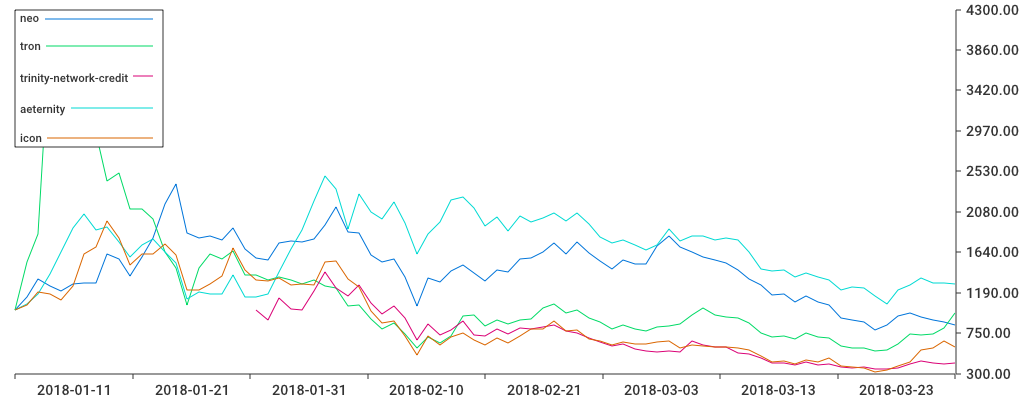
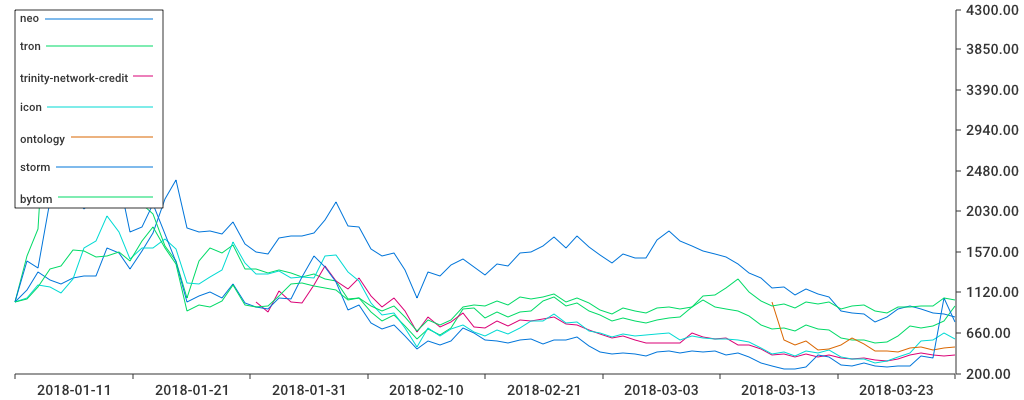
changes to asia

diff --git a/main.go b/main.go
@@ -193,5 +193,5 @@ func portfolioCharts() {
 	util.DrawPortfolioComparisonChart(1000.00, "2018-01-01", "exchanges", "binance-coin", "augur", "gnosis-gno", "0x", "kyber-network", "bancor", "airswap", "republic-protocol")
 	util.DrawPortfolioComparisonChart(1000.00, "2018-01-01", "stables", "maker", "trust", "digixdao", "dai", "tether")
 	util.DrawPortfolioComparisonChart(1000.00, "2018-01-01", "utility", "basic-attention-token", "golem-network-tokens", "request-network", "funfair")
-	util.DrawPortfolioComparisonChart(1000.00, "2018-01-01", "asia", "neo", "tron", "trinity-network-credit", "aeternity", "icon")
+	util.DrawPortfolioComparisonChart(1000.00, "2018-01-01", "asia", "neo", "tron", "trinity-network-credit", "icon", "ontology", "storm", "bytom")
 }

diff --git a/charts/portfolio/asia.md b/charts/portfolio/asia.md
@@ -229,90 +229,6 @@
 * Date bought: 2018-01-01 - Current Date: 2018-01-24 00:00:00 +0000 UTC - Valuation: 1129.96 - Price: 0.31 
 * Date bought: 2018-01-01 - Current Date: 2018-01-23 00:00:00 +0000 UTC - Valuation: 888.33 - Price: 0.24 
 * Date bought: 2018-01-01 - Current Date: 2018-01-22 00:00:00 +0000 UTC - Valuation: 1000.00 - Price: 0.27 
-### aeternity
-* Date bought: 2018-01-01 - Current Date: 2018-03-24 00:00:00 +0000 UTC - Valuation: 1284.62 - Price: 1.67 
-* Date bought: 2018-01-01 - Current Date: 2018-03-23 00:00:00 +0000 UTC - Valuation: 1300.00 - Price: 1.69 
-* Date bought: 2018-01-01 - Current Date: 2018-03-22 00:00:00 +0000 UTC - Valuation: 1292.31 - Price: 1.68 
-* Date bought: 2018-01-01 - Current Date: 2018-03-21 00:00:00 +0000 UTC - Valuation: 1346.15 - Price: 1.75 
-* Date bought: 2018-01-01 - Current Date: 2018-03-20 00:00:00 +0000 UTC - Valuation: 1276.92 - Price: 1.66 
-* Date bought: 2018-01-01 - Current Date: 2018-03-19 00:00:00 +0000 UTC - Valuation: 1215.38 - Price: 1.58 
-* Date bought: 2018-01-01 - Current Date: 2018-03-18 00:00:00 +0000 UTC - Valuation: 1069.23 - Price: 1.39 
-* Date bought: 2018-01-01 - Current Date: 2018-03-17 00:00:00 +0000 UTC - Valuation: 1153.85 - Price: 1.50 
-* Date bought: 2018-01-01 - Current Date: 2018-03-16 00:00:00 +0000 UTC - Valuation: 1238.46 - Price: 1.61 
-* Date bought: 2018-01-01 - Current Date: 2018-03-15 00:00:00 +0000 UTC - Valuation: 1246.15 - Price: 1.62 
-* Date bought: 2018-01-01 - Current Date: 2018-03-14 00:00:00 +0000 UTC - Valuation: 1215.38 - Price: 1.58 
-* Date bought: 2018-01-01 - Current Date: 2018-03-13 00:00:00 +0000 UTC - Valuation: 1323.08 - Price: 1.72 
-* Date bought: 2018-01-01 - Current Date: 2018-03-12 00:00:00 +0000 UTC - Valuation: 1361.54 - Price: 1.77 
-* Date bought: 2018-01-01 - Current Date: 2018-03-11 00:00:00 +0000 UTC - Valuation: 1407.69 - Price: 1.83 
-* Date bought: 2018-01-01 - Current Date: 2018-03-10 00:00:00 +0000 UTC - Valuation: 1361.54 - Price: 1.77 
-* Date bought: 2018-01-01 - Current Date: 2018-03-09 00:00:00 +0000 UTC - Valuation: 1438.46 - Price: 1.87 
-* Date bought: 2018-01-01 - Current Date: 2018-03-08 00:00:00 +0000 UTC - Valuation: 1423.08 - Price: 1.85 
-* Date bought: 2018-01-01 - Current Date: 2018-03-07 00:00:00 +0000 UTC - Valuation: 1446.15 - Price: 1.88 
-* Date bought: 2018-01-01 - Current Date: 2018-03-06 00:00:00 +0000 UTC - Valuation: 1630.77 - Price: 2.12 
-* Date bought: 2018-01-01 - Current Date: 2018-03-05 00:00:00 +0000 UTC - Valuation: 1769.23 - Price: 2.30 
-* Date bought: 2018-01-01 - Current Date: 2018-03-04 00:00:00 +0000 UTC - Valuation: 1784.62 - Price: 2.32 
-* Date bought: 2018-01-01 - Current Date: 2018-03-03 00:00:00 +0000 UTC - Valuation: 1769.23 - Price: 2.30 
-* Date bought: 2018-01-01 - Current Date: 2018-03-02 00:00:00 +0000 UTC - Valuation: 1815.38 - Price: 2.36 
-* Date bought: 2018-01-01 - Current Date: 2018-03-01 00:00:00 +0000 UTC - Valuation: 1807.69 - Price: 2.35 
-* Date bought: 2018-01-01 - Current Date: 2018-02-28 00:00:00 +0000 UTC - Valuation: 1753.85 - Price: 2.28 
-* Date bought: 2018-01-01 - Current Date: 2018-02-27 00:00:00 +0000 UTC - Valuation: 1884.62 - Price: 2.45 
-* Date bought: 2018-01-01 - Current Date: 2018-02-26 00:00:00 +0000 UTC - Valuation: 1707.69 - Price: 2.22 
-* Date bought: 2018-01-01 - Current Date: 2018-02-25 00:00:00 +0000 UTC - Valuation: 1661.54 - Price: 2.16 
-* Date bought: 2018-01-01 - Current Date: 2018-02-24 00:00:00 +0000 UTC - Valuation: 1715.38 - Price: 2.23 
-* Date bought: 2018-01-01 - Current Date: 2018-02-23 00:00:00 +0000 UTC - Valuation: 1769.23 - Price: 2.30 
-* Date bought: 2018-01-01 - Current Date: 2018-02-22 00:00:00 +0000 UTC - Valuation: 1738.46 - Price: 2.26 
-* Date bought: 2018-01-01 - Current Date: 2018-02-21 00:00:00 +0000 UTC - Valuation: 1800.00 - Price: 2.34 
-* Date bought: 2018-01-01 - Current Date: 2018-02-20 00:00:00 +0000 UTC - Valuation: 1946.15 - Price: 2.53 
-* Date bought: 2018-01-01 - Current Date: 2018-02-19 00:00:00 +0000 UTC - Valuation: 2069.23 - Price: 2.69 
-* Date bought: 2018-01-01 - Current Date: 2018-02-18 00:00:00 +0000 UTC - Valuation: 1976.92 - Price: 2.57 
-* Date bought: 2018-01-01 - Current Date: 2018-02-17 00:00:00 +0000 UTC - Valuation: 2061.54 - Price: 2.68 
-* Date bought: 2018-01-01 - Current Date: 2018-02-16 00:00:00 +0000 UTC - Valuation: 2007.69 - Price: 2.61 
-* Date bought: 2018-01-01 - Current Date: 2018-02-15 00:00:00 +0000 UTC - Valuation: 1969.23 - Price: 2.56 
-* Date bought: 2018-01-01 - Current Date: 2018-02-14 00:00:00 +0000 UTC - Valuation: 2030.77 - Price: 2.64 
-* Date bought: 2018-01-01 - Current Date: 2018-02-13 00:00:00 +0000 UTC - Valuation: 1861.54 - Price: 2.42 
-* Date bought: 2018-01-01 - Current Date: 2018-02-12 00:00:00 +0000 UTC - Valuation: 2023.08 - Price: 2.63 
-* Date bought: 2018-01-01 - Current Date: 2018-02-11 00:00:00 +0000 UTC - Valuation: 1923.08 - Price: 2.50 
-* Date bought: 2018-01-01 - Current Date: 2018-02-10 00:00:00 +0000 UTC - Valuation: 2123.08 - Price: 2.76 
-* Date bought: 2018-01-01 - Current Date: 2018-02-09 00:00:00 +0000 UTC - Valuation: 2238.46 - Price: 2.91 
-* Date bought: 2018-01-01 - Current Date: 2018-02-08 00:00:00 +0000 UTC - Valuation: 2207.69 - Price: 2.87 
-* Date bought: 2018-01-01 - Current Date: 2018-02-07 00:00:00 +0000 UTC - Valuation: 1961.54 - Price: 2.55 
-* Date bought: 2018-01-01 - Current Date: 2018-02-06 00:00:00 +0000 UTC - Valuation: 1838.46 - Price: 2.39 
-* Date bought: 2018-01-01 - Current Date: 2018-02-05 00:00:00 +0000 UTC - Valuation: 1615.38 - Price: 2.10 
-* Date bought: 2018-01-01 - Current Date: 2018-02-04 00:00:00 +0000 UTC - Valuation: 1953.85 - Price: 2.54 
-* Date bought: 2018-01-01 - Current Date: 2018-02-03 00:00:00 +0000 UTC - Valuation: 2184.62 - Price: 2.84 
-* Date bought: 2018-01-01 - Current Date: 2018-02-02 00:00:00 +0000 UTC - Valuation: 2000.00 - Price: 2.60 
-* Date bought: 2018-01-01 - Current Date: 2018-02-01 00:00:00 +0000 UTC - Valuation: 2076.92 - Price: 2.70 
-* Date bought: 2018-01-01 - Current Date: 2018-01-31 00:00:00 +0000 UTC - Valuation: 2269.23 - Price: 2.95 
-* Date bought: 2018-01-01 - Current Date: 2018-01-30 00:00:00 +0000 UTC - Valuation: 1892.31 - Price: 2.46 
-* Date bought: 2018-01-01 - Current Date: 2018-01-29 00:00:00 +0000 UTC - Valuation: 2330.77 - Price: 3.03 
-* Date bought: 2018-01-01 - Current Date: 2018-01-28 00:00:00 +0000 UTC - Valuation: 2469.23 - Price: 3.21 
-* Date bought: 2018-01-01 - Current Date: 2018-01-27 00:00:00 +0000 UTC - Valuation: 2200.00 - Price: 2.86 
-* Date bought: 2018-01-01 - Current Date: 2018-01-26 00:00:00 +0000 UTC - Valuation: 1876.92 - Price: 2.44 
-* Date bought: 2018-01-01 - Current Date: 2018-01-25 00:00:00 +0000 UTC - Valuation: 1669.23 - Price: 2.17 
-* Date bought: 2018-01-01 - Current Date: 2018-01-24 00:00:00 +0000 UTC - Valuation: 1415.38 - Price: 1.84 
-* Date bought: 2018-01-01 - Current Date: 2018-01-23 00:00:00 +0000 UTC - Valuation: 1176.92 - Price: 1.53 
-* Date bought: 2018-01-01 - Current Date: 2018-01-22 00:00:00 +0000 UTC - Valuation: 1146.15 - Price: 1.49 
-* Date bought: 2018-01-01 - Current Date: 2018-01-21 00:00:00 +0000 UTC - Valuation: 1146.15 - Price: 1.49 
-* Date bought: 2018-01-01 - Current Date: 2018-01-20 00:00:00 +0000 UTC - Valuation: 1384.62 - Price: 1.80 
-* Date bought: 2018-01-01 - Current Date: 2018-01-19 00:00:00 +0000 UTC - Valuation: 1176.92 - Price: 1.53 
-* Date bought: 2018-01-01 - Current Date: 2018-01-18 00:00:00 +0000 UTC - Valuation: 1169.23 - Price: 1.52 
-* Date bought: 2018-01-01 - Current Date: 2018-01-17 00:00:00 +0000 UTC - Valuation: 1192.31 - Price: 1.55 
-* Date bought: 2018-01-01 - Current Date: 2018-01-16 00:00:00 +0000 UTC - Valuation: 1123.08 - Price: 1.46 
-* Date bought: 2018-01-01 - Current Date: 2018-01-15 00:00:00 +0000 UTC - Valuation: 1515.38 - Price: 1.97 
-* Date bought: 2018-01-01 - Current Date: 2018-01-14 00:00:00 +0000 UTC - Valuation: 1638.46 - Price: 2.13 
-* Date bought: 2018-01-01 - Current Date: 2018-01-13 00:00:00 +0000 UTC - Valuation: 1776.92 - Price: 2.31 
-* Date bought: 2018-01-01 - Current Date: 2018-01-12 00:00:00 +0000 UTC - Valuation: 1707.69 - Price: 2.22 
-* Date bought: 2018-01-01 - Current Date: 2018-01-11 00:00:00 +0000 UTC - Valuation: 1584.62 - Price: 2.06 
-* Date bought: 2018-01-01 - Current Date: 2018-01-10 00:00:00 +0000 UTC - Valuation: 1746.15 - Price: 2.27 
-* Date bought: 2018-01-01 - Current Date: 2018-01-09 00:00:00 +0000 UTC - Valuation: 1907.69 - Price: 2.48 
-* Date bought: 2018-01-01 - Current Date: 2018-01-08 00:00:00 +0000 UTC - Valuation: 1876.92 - Price: 2.44 
-* Date bought: 2018-01-01 - Current Date: 2018-01-07 00:00:00 +0000 UTC - Valuation: 2053.85 - Price: 2.67 
-* Date bought: 2018-01-01 - Current Date: 2018-01-06 00:00:00 +0000 UTC - Valuation: 1900.00 - Price: 2.47 
-* Date bought: 2018-01-01 - Current Date: 2018-01-05 00:00:00 +0000 UTC - Valuation: 1638.46 - Price: 2.13 
-* Date bought: 2018-01-01 - Current Date: 2018-01-04 00:00:00 +0000 UTC - Valuation: 1392.31 - Price: 1.81 
-* Date bought: 2018-01-01 - Current Date: 2018-01-03 00:00:00 +0000 UTC - Valuation: 1176.92 - Price: 1.53 
-* Date bought: 2018-01-01 - Current Date: 2018-01-02 00:00:00 +0000 UTC - Valuation: 1061.54 - Price: 1.38 
-* Date bought: 2018-01-01 - Current Date: 2018-01-01 00:00:00 +0000 UTC - Valuation: 1000.00 - Price: 1.30 
 ### icon
 * Date bought: 2018-01-01 - Current Date: 2018-03-24 00:00:00 +0000 UTC - Valuation: 590.91 - Price: 3.64 
 * Date bought: 2018-01-01 - Current Date: 2018-03-23 00:00:00 +0000 UTC - Valuation: 659.09 - Price: 4.06 
@@ -397,3 +313,189 @@
 * Date bought: 2018-01-01 - Current Date: 2018-01-03 00:00:00 +0000 UTC - Valuation: 1191.56 - Price: 7.34 
 * Date bought: 2018-01-01 - Current Date: 2018-01-02 00:00:00 +0000 UTC - Valuation: 1053.57 - Price: 6.49 
 * Date bought: 2018-01-01 - Current Date: 2018-01-01 00:00:00 +0000 UTC - Valuation: 1000.00 - Price: 6.16 
+### ontology
+* Date bought: 2018-01-01 - Current Date: 2018-03-24 00:00:00 +0000 UTC - Valuation: 503.52 - Price: 1.43 
+* Date bought: 2018-01-01 - Current Date: 2018-03-23 00:00:00 +0000 UTC - Valuation: 482.39 - Price: 1.37 
+* Date bought: 2018-01-01 - Current Date: 2018-03-22 00:00:00 +0000 UTC - Valuation: 461.27 - Price: 1.31 
+* Date bought: 2018-01-01 - Current Date: 2018-03-21 00:00:00 +0000 UTC - Valuation: 496.48 - Price: 1.41 
+* Date bought: 2018-01-01 - Current Date: 2018-03-20 00:00:00 +0000 UTC - Valuation: 485.92 - Price: 1.38 
+* Date bought: 2018-01-01 - Current Date: 2018-03-19 00:00:00 +0000 UTC - Valuation: 443.66 - Price: 1.26 
+* Date bought: 2018-01-01 - Current Date: 2018-03-18 00:00:00 +0000 UTC - Valuation: 450.70 - Price: 1.28 
+* Date bought: 2018-01-01 - Current Date: 2018-03-17 00:00:00 +0000 UTC - Valuation: 450.70 - Price: 1.28 
+* Date bought: 2018-01-01 - Current Date: 2018-03-16 00:00:00 +0000 UTC - Valuation: 531.69 - Price: 1.51 
+* Date bought: 2018-01-01 - Current Date: 2018-03-15 00:00:00 +0000 UTC - Valuation: 595.07 - Price: 1.69 
+* Date bought: 2018-01-01 - Current Date: 2018-03-14 00:00:00 +0000 UTC - Valuation: 517.61 - Price: 1.47 
+* Date bought: 2018-01-01 - Current Date: 2018-03-13 00:00:00 +0000 UTC - Valuation: 478.87 - Price: 1.36 
+* Date bought: 2018-01-01 - Current Date: 2018-03-12 00:00:00 +0000 UTC - Valuation: 461.27 - Price: 1.31 
+* Date bought: 2018-01-01 - Current Date: 2018-03-11 00:00:00 +0000 UTC - Valuation: 563.38 - Price: 1.60 
+* Date bought: 2018-01-01 - Current Date: 2018-03-10 00:00:00 +0000 UTC - Valuation: 521.13 - Price: 1.48 
+* Date bought: 2018-01-01 - Current Date: 2018-03-09 00:00:00 +0000 UTC - Valuation: 577.46 - Price: 1.64 
+* Date bought: 2018-01-01 - Current Date: 2018-03-08 00:00:00 +0000 UTC - Valuation: 1000.00 - Price: 2.84 
+### storm
+* Date bought: 2018-01-01 - Current Date: 2018-03-24 00:00:00 +0000 UTC - Valuation: 784.30 - Price: 0.05 
+* Date bought: 2018-01-01 - Current Date: 2018-03-23 00:00:00 +0000 UTC - Valuation: 1045.19 - Price: 0.07 
+* Date bought: 2018-01-01 - Current Date: 2018-03-22 00:00:00 +0000 UTC - Valuation: 371.56 - Price: 0.03 
+* Date bought: 2018-01-01 - Current Date: 2018-03-21 00:00:00 +0000 UTC - Valuation: 398.16 - Price: 0.03 
+* Date bought: 2018-01-01 - Current Date: 2018-03-20 00:00:00 +0000 UTC - Valuation: 285.67 - Price: 0.02 
+* Date bought: 2018-01-01 - Current Date: 2018-03-19 00:00:00 +0000 UTC - Valuation: 283.04 - Price: 0.02 
+* Date bought: 2018-01-01 - Current Date: 2018-03-18 00:00:00 +0000 UTC - Valuation: 277.68 - Price: 0.02 
+* Date bought: 2018-01-01 - Current Date: 2018-03-17 00:00:00 +0000 UTC - Valuation: 284.58 - Price: 0.02 
+* Date bought: 2018-01-01 - Current Date: 2018-03-16 00:00:00 +0000 UTC - Valuation: 315.73 - Price: 0.02 
+* Date bought: 2018-01-01 - Current Date: 2018-03-15 00:00:00 +0000 UTC - Valuation: 286.51 - Price: 0.02 
+* Date bought: 2018-01-01 - Current Date: 2018-03-14 00:00:00 +0000 UTC - Valuation: 296.70 - Price: 0.02 
+* Date bought: 2018-01-01 - Current Date: 2018-03-13 00:00:00 +0000 UTC - Valuation: 384.36 - Price: 0.03 
+* Date bought: 2018-01-01 - Current Date: 2018-03-12 00:00:00 +0000 UTC - Valuation: 411.29 - Price: 0.03 
+* Date bought: 2018-01-01 - Current Date: 2018-03-11 00:00:00 +0000 UTC - Valuation: 270.61 - Price: 0.02 
+* Date bought: 2018-01-01 - Current Date: 2018-03-10 00:00:00 +0000 UTC - Valuation: 253.78 - Price: 0.02 
+* Date bought: 2018-01-01 - Current Date: 2018-03-09 00:00:00 +0000 UTC - Valuation: 255.56 - Price: 0.02 
+* Date bought: 2018-01-01 - Current Date: 2018-03-08 00:00:00 +0000 UTC - Valuation: 281.25 - Price: 0.02 
+* Date bought: 2018-01-01 - Current Date: 2018-03-07 00:00:00 +0000 UTC - Valuation: 322.49 - Price: 0.02 
+* Date bought: 2018-01-01 - Current Date: 2018-03-06 00:00:00 +0000 UTC - Valuation: 383.91 - Price: 0.03 
+* Date bought: 2018-01-01 - Current Date: 2018-03-05 00:00:00 +0000 UTC - Valuation: 435.94 - Price: 0.03 
+* Date bought: 2018-01-01 - Current Date: 2018-03-04 00:00:00 +0000 UTC - Valuation: 413.30 - Price: 0.03 
+* Date bought: 2018-01-01 - Current Date: 2018-03-03 00:00:00 +0000 UTC - Valuation: 452.61 - Price: 0.03 
+* Date bought: 2018-01-01 - Current Date: 2018-03-02 00:00:00 +0000 UTC - Valuation: 446.41 - Price: 0.03 
+* Date bought: 2018-01-01 - Current Date: 2018-03-01 00:00:00 +0000 UTC - Valuation: 450.18 - Price: 0.03 
+* Date bought: 2018-01-01 - Current Date: 2018-02-28 00:00:00 +0000 UTC - Valuation: 430.15 - Price: 0.03 
+* Date bought: 2018-01-01 - Current Date: 2018-02-27 00:00:00 +0000 UTC - Valuation: 449.12 - Price: 0.03 
+* Date bought: 2018-01-01 - Current Date: 2018-02-26 00:00:00 +0000 UTC - Valuation: 445.53 - Price: 0.03 
+* Date bought: 2018-01-01 - Current Date: 2018-02-25 00:00:00 +0000 UTC - Valuation: 392.28 - Price: 0.03 
+* Date bought: 2018-01-01 - Current Date: 2018-02-24 00:00:00 +0000 UTC - Valuation: 421.96 - Price: 0.03 
+* Date bought: 2018-01-01 - Current Date: 2018-02-23 00:00:00 +0000 UTC - Valuation: 434.97 - Price: 0.03 
+* Date bought: 2018-01-01 - Current Date: 2018-02-22 00:00:00 +0000 UTC - Valuation: 414.58 - Price: 0.03 
+* Date bought: 2018-01-01 - Current Date: 2018-02-21 00:00:00 +0000 UTC - Valuation: 442.17 - Price: 0.03 
+* Date bought: 2018-01-01 - Current Date: 2018-02-20 00:00:00 +0000 UTC - Valuation: 509.99 - Price: 0.03 
+* Date bought: 2018-01-01 - Current Date: 2018-02-19 00:00:00 +0000 UTC - Valuation: 612.64 - Price: 0.04 
+* Date bought: 2018-01-01 - Current Date: 2018-02-18 00:00:00 +0000 UTC - Valuation: 572.37 - Price: 0.04 
+* Date bought: 2018-01-01 - Current Date: 2018-02-17 00:00:00 +0000 UTC - Valuation: 576.37 - Price: 0.04 
+* Date bought: 2018-01-01 - Current Date: 2018-02-16 00:00:00 +0000 UTC - Valuation: 530.29 - Price: 0.04 
+* Date bought: 2018-01-01 - Current Date: 2018-02-15 00:00:00 +0000 UTC - Valuation: 584.83 - Price: 0.04 
+* Date bought: 2018-01-01 - Current Date: 2018-02-14 00:00:00 +0000 UTC - Valuation: 572.40 - Price: 0.04 
+* Date bought: 2018-01-01 - Current Date: 2018-02-13 00:00:00 +0000 UTC - Valuation: 542.33 - Price: 0.04 
+* Date bought: 2018-01-01 - Current Date: 2018-02-12 00:00:00 +0000 UTC - Valuation: 571.09 - Price: 0.04 
+* Date bought: 2018-01-01 - Current Date: 2018-02-11 00:00:00 +0000 UTC - Valuation: 574.47 - Price: 0.04 
+* Date bought: 2018-01-01 - Current Date: 2018-02-10 00:00:00 +0000 UTC - Valuation: 660.59 - Price: 0.04 
+* Date bought: 2018-01-01 - Current Date: 2018-02-09 00:00:00 +0000 UTC - Valuation: 709.19 - Price: 0.05 
+* Date bought: 2018-01-01 - Current Date: 2018-02-08 00:00:00 +0000 UTC - Valuation: 564.38 - Price: 0.04 
+* Date bought: 2018-01-01 - Current Date: 2018-02-07 00:00:00 +0000 UTC - Valuation: 518.26 - Price: 0.03 
+* Date bought: 2018-01-01 - Current Date: 2018-02-06 00:00:00 +0000 UTC - Valuation: 569.02 - Price: 0.04 
+* Date bought: 2018-01-01 - Current Date: 2018-02-05 00:00:00 +0000 UTC - Valuation: 471.68 - Price: 0.03 
+* Date bought: 2018-01-01 - Current Date: 2018-02-04 00:00:00 +0000 UTC - Valuation: 619.09 - Price: 0.04 
+* Date bought: 2018-01-01 - Current Date: 2018-02-03 00:00:00 +0000 UTC - Valuation: 747.60 - Price: 0.05 
+* Date bought: 2018-01-01 - Current Date: 2018-02-02 00:00:00 +0000 UTC - Valuation: 699.21 - Price: 0.05 
+* Date bought: 2018-01-01 - Current Date: 2018-02-01 00:00:00 +0000 UTC - Valuation: 769.16 - Price: 0.05 
+* Date bought: 2018-01-01 - Current Date: 2018-01-31 00:00:00 +0000 UTC - Valuation: 975.51 - Price: 0.07 
+* Date bought: 2018-01-01 - Current Date: 2018-01-30 00:00:00 +0000 UTC - Valuation: 916.68 - Price: 0.06 
+* Date bought: 2018-01-01 - Current Date: 2018-01-29 00:00:00 +0000 UTC - Valuation: 1235.38 - Price: 0.08 
+* Date bought: 2018-01-01 - Current Date: 2018-01-28 00:00:00 +0000 UTC - Valuation: 1400.52 - Price: 0.09 
+* Date bought: 2018-01-01 - Current Date: 2018-01-27 00:00:00 +0000 UTC - Valuation: 1518.63 - Price: 0.10 
+* Date bought: 2018-01-01 - Current Date: 2018-01-26 00:00:00 +0000 UTC - Valuation: 1282.20 - Price: 0.09 
+* Date bought: 2018-01-01 - Current Date: 2018-01-25 00:00:00 +0000 UTC - Valuation: 1037.92 - Price: 0.07 
+* Date bought: 2018-01-01 - Current Date: 2018-01-24 00:00:00 +0000 UTC - Valuation: 1050.88 - Price: 0.07 
+* Date bought: 2018-01-01 - Current Date: 2018-01-23 00:00:00 +0000 UTC - Valuation: 925.19 - Price: 0.06 
+* Date bought: 2018-01-01 - Current Date: 2018-01-22 00:00:00 +0000 UTC - Valuation: 943.74 - Price: 0.06 
+* Date bought: 2018-01-01 - Current Date: 2018-01-21 00:00:00 +0000 UTC - Valuation: 991.18 - Price: 0.07 
+* Date bought: 2018-01-01 - Current Date: 2018-01-20 00:00:00 +0000 UTC - Valuation: 1204.15 - Price: 0.08 
+* Date bought: 2018-01-01 - Current Date: 2018-01-19 00:00:00 +0000 UTC - Valuation: 1044.84 - Price: 0.07 
+* Date bought: 2018-01-01 - Current Date: 2018-01-18 00:00:00 +0000 UTC - Valuation: 1122.51 - Price: 0.08 
+* Date bought: 2018-01-01 - Current Date: 2018-01-17 00:00:00 +0000 UTC - Valuation: 1074.53 - Price: 0.07 
+* Date bought: 2018-01-01 - Current Date: 2018-01-16 00:00:00 +0000 UTC - Valuation: 1000.95 - Price: 0.07 
+* Date bought: 2018-01-01 - Current Date: 2018-01-15 00:00:00 +0000 UTC - Valuation: 1456.78 - Price: 0.10 
+* Date bought: 2018-01-01 - Current Date: 2018-01-14 00:00:00 +0000 UTC - Valuation: 1773.81 - Price: 0.12 
+* Date bought: 2018-01-01 - Current Date: 2018-01-13 00:00:00 +0000 UTC - Valuation: 2106.98 - Price: 0.14 
+* Date bought: 2018-01-01 - Current Date: 2018-01-12 00:00:00 +0000 UTC - Valuation: 1848.22 - Price: 0.12 
+* Date bought: 2018-01-01 - Current Date: 2018-01-11 00:00:00 +0000 UTC - Valuation: 1792.61 - Price: 0.12 
+* Date bought: 2018-01-01 - Current Date: 2018-01-10 00:00:00 +0000 UTC - Valuation: 2388.63 - Price: 0.16 
+* Date bought: 2018-01-01 - Current Date: 2018-01-09 00:00:00 +0000 UTC - Valuation: 3130.17 - Price: 0.21 
+* Date bought: 2018-01-01 - Current Date: 2018-01-08 00:00:00 +0000 UTC - Valuation: 2193.78 - Price: 0.15 
+* Date bought: 2018-01-01 - Current Date: 2018-01-07 00:00:00 +0000 UTC - Valuation: 2056.16 - Price: 0.14 
+* Date bought: 2018-01-01 - Current Date: 2018-01-06 00:00:00 +0000 UTC - Valuation: 2242.92 - Price: 0.15 
+* Date bought: 2018-01-01 - Current Date: 2018-01-05 00:00:00 +0000 UTC - Valuation: 2662.04 - Price: 0.18 
+* Date bought: 2018-01-01 - Current Date: 2018-01-04 00:00:00 +0000 UTC - Valuation: 2147.03 - Price: 0.14 
+* Date bought: 2018-01-01 - Current Date: 2018-01-03 00:00:00 +0000 UTC - Valuation: 1389.74 - Price: 0.09 
+* Date bought: 2018-01-01 - Current Date: 2018-01-02 00:00:00 +0000 UTC - Valuation: 1462.66 - Price: 0.10 
+* Date bought: 2018-01-01 - Current Date: 2018-01-01 00:00:00 +0000 UTC - Valuation: 1000.00 - Price: 0.07 
+### bytom
+* Date bought: 2018-01-01 - Current Date: 2018-03-24 00:00:00 +0000 UTC - Valuation: 1031.95 - Price: 0.38 
+* Date bought: 2018-01-01 - Current Date: 2018-03-23 00:00:00 +0000 UTC - Valuation: 1045.92 - Price: 0.38 
+* Date bought: 2018-01-01 - Current Date: 2018-03-22 00:00:00 +0000 UTC - Valuation: 955.77 - Price: 0.35 
+* Date bought: 2018-01-01 - Current Date: 2018-03-21 00:00:00 +0000 UTC - Valuation: 963.61 - Price: 0.35 
+* Date bought: 2018-01-01 - Current Date: 2018-03-20 00:00:00 +0000 UTC - Valuation: 944.98 - Price: 0.35 
+* Date bought: 2018-01-01 - Current Date: 2018-03-19 00:00:00 +0000 UTC - Valuation: 944.30 - Price: 0.35 
+* Date bought: 2018-01-01 - Current Date: 2018-03-18 00:00:00 +0000 UTC - Valuation: 885.10 - Price: 0.32 
+* Date bought: 2018-01-01 - Current Date: 2018-03-17 00:00:00 +0000 UTC - Valuation: 907.41 - Price: 0.33 
+* Date bought: 2018-01-01 - Current Date: 2018-03-16 00:00:00 +0000 UTC - Valuation: 966.36 - Price: 0.35 
+* Date bought: 2018-01-01 - Current Date: 2018-03-15 00:00:00 +0000 UTC - Valuation: 958.58 - Price: 0.35 
+* Date bought: 2018-01-01 - Current Date: 2018-03-14 00:00:00 +0000 UTC - Valuation: 931.48 - Price: 0.34 
+* Date bought: 2018-01-01 - Current Date: 2018-03-13 00:00:00 +0000 UTC - Valuation: 1006.78 - Price: 0.37 
+* Date bought: 2018-01-01 - Current Date: 2018-03-12 00:00:00 +0000 UTC - Valuation: 981.85 - Price: 0.36 
+* Date bought: 2018-01-01 - Current Date: 2018-03-11 00:00:00 +0000 UTC - Valuation: 1004.54 - Price: 0.37 
+* Date bought: 2018-01-01 - Current Date: 2018-03-10 00:00:00 +0000 UTC - Valuation: 934.45 - Price: 0.34 
+* Date bought: 2018-01-01 - Current Date: 2018-03-09 00:00:00 +0000 UTC - Valuation: 986.44 - Price: 0.36 
+* Date bought: 2018-01-01 - Current Date: 2018-03-08 00:00:00 +0000 UTC - Valuation: 959.28 - Price: 0.35 
+* Date bought: 2018-01-01 - Current Date: 2018-03-07 00:00:00 +0000 UTC - Valuation: 1012.03 - Price: 0.37 
+* Date bought: 2018-01-01 - Current Date: 2018-03-06 00:00:00 +0000 UTC - Valuation: 1118.44 - Price: 0.41 
+* Date bought: 2018-01-01 - Current Date: 2018-03-05 00:00:00 +0000 UTC - Valuation: 1261.76 - Price: 0.46 
+* Date bought: 2018-01-01 - Current Date: 2018-03-04 00:00:00 +0000 UTC - Valuation: 1158.01 - Price: 0.42 
+* Date bought: 2018-01-01 - Current Date: 2018-03-03 00:00:00 +0000 UTC - Valuation: 1083.24 - Price: 0.40 
+* Date bought: 2018-01-01 - Current Date: 2018-03-02 00:00:00 +0000 UTC - Valuation: 1073.23 - Price: 0.39 
+* Date bought: 2018-01-01 - Current Date: 2018-03-01 00:00:00 +0000 UTC - Valuation: 950.21 - Price: 0.35 
+* Date bought: 2018-01-01 - Current Date: 2018-02-28 00:00:00 +0000 UTC - Valuation: 922.33 - Price: 0.34 
+* Date bought: 2018-01-01 - Current Date: 2018-02-27 00:00:00 +0000 UTC - Valuation: 949.81 - Price: 0.35 
+* Date bought: 2018-01-01 - Current Date: 2018-02-26 00:00:00 +0000 UTC - Valuation: 941.89 - Price: 0.35 
+* Date bought: 2018-01-01 - Current Date: 2018-02-25 00:00:00 +0000 UTC - Valuation: 886.60 - Price: 0.33 
+* Date bought: 2018-01-01 - Current Date: 2018-02-24 00:00:00 +0000 UTC - Valuation: 908.84 - Price: 0.33 
+* Date bought: 2018-01-01 - Current Date: 2018-02-23 00:00:00 +0000 UTC - Valuation: 940.27 - Price: 0.34 
+* Date bought: 2018-01-01 - Current Date: 2018-02-22 00:00:00 +0000 UTC - Valuation: 875.16 - Price: 0.32 
+* Date bought: 2018-01-01 - Current Date: 2018-02-21 00:00:00 +0000 UTC - Valuation: 913.35 - Price: 0.34 
+* Date bought: 2018-01-01 - Current Date: 2018-02-20 00:00:00 +0000 UTC - Valuation: 992.45 - Price: 0.36 
+* Date bought: 2018-01-01 - Current Date: 2018-02-19 00:00:00 +0000 UTC - Valuation: 1044.95 - Price: 0.38 
+* Date bought: 2018-01-01 - Current Date: 2018-02-18 00:00:00 +0000 UTC - Valuation: 1003.53 - Price: 0.37 
+* Date bought: 2018-01-01 - Current Date: 2018-02-17 00:00:00 +0000 UTC - Valuation: 1095.03 - Price: 0.40 
+* Date bought: 2018-01-01 - Current Date: 2018-02-16 00:00:00 +0000 UTC - Valuation: 1058.26 - Price: 0.39 
+* Date bought: 2018-01-01 - Current Date: 2018-02-15 00:00:00 +0000 UTC - Valuation: 1043.45 - Price: 0.38 
+* Date bought: 2018-01-01 - Current Date: 2018-02-14 00:00:00 +0000 UTC - Valuation: 1056.10 - Price: 0.39 
+* Date bought: 2018-01-01 - Current Date: 2018-02-13 00:00:00 +0000 UTC - Valuation: 971.70 - Price: 0.36 
+* Date bought: 2018-01-01 - Current Date: 2018-02-12 00:00:00 +0000 UTC - Valuation: 1011.28 - Price: 0.37 
+* Date bought: 2018-01-01 - Current Date: 2018-02-11 00:00:00 +0000 UTC - Valuation: 961.46 - Price: 0.35 
+* Date bought: 2018-01-01 - Current Date: 2018-02-10 00:00:00 +0000 UTC - Valuation: 968.92 - Price: 0.36 
+* Date bought: 2018-01-01 - Current Date: 2018-02-09 00:00:00 +0000 UTC - Valuation: 954.03 - Price: 0.35 
+* Date bought: 2018-01-01 - Current Date: 2018-02-08 00:00:00 +0000 UTC - Valuation: 802.60 - Price: 0.29 
+* Date bought: 2018-01-01 - Current Date: 2018-02-07 00:00:00 +0000 UTC - Valuation: 748.34 - Price: 0.27 
+* Date bought: 2018-01-01 - Current Date: 2018-02-06 00:00:00 +0000 UTC - Valuation: 799.41 - Price: 0.29 
+* Date bought: 2018-01-01 - Current Date: 2018-02-05 00:00:00 +0000 UTC - Valuation: 681.59 - Price: 0.25 
+* Date bought: 2018-01-01 - Current Date: 2018-02-04 00:00:00 +0000 UTC - Valuation: 835.49 - Price: 0.31 
+* Date bought: 2018-01-01 - Current Date: 2018-02-03 00:00:00 +0000 UTC - Valuation: 964.18 - Price: 0.35 
+* Date bought: 2018-01-01 - Current Date: 2018-02-02 00:00:00 +0000 UTC - Valuation: 905.68 - Price: 0.33 
+* Date bought: 2018-01-01 - Current Date: 2018-02-01 00:00:00 +0000 UTC - Valuation: 954.70 - Price: 0.35 
+* Date bought: 2018-01-01 - Current Date: 2018-01-31 00:00:00 +0000 UTC - Valuation: 1045.65 - Price: 0.38 
+* Date bought: 2018-01-01 - Current Date: 2018-01-30 00:00:00 +0000 UTC - Valuation: 1023.51 - Price: 0.38 
+* Date bought: 2018-01-01 - Current Date: 2018-01-29 00:00:00 +0000 UTC - Valuation: 1135.27 - Price: 0.42 
+* Date bought: 2018-01-01 - Current Date: 2018-01-28 00:00:00 +0000 UTC - Valuation: 1164.81 - Price: 0.43 
+* Date bought: 2018-01-01 - Current Date: 2018-01-27 00:00:00 +0000 UTC - Valuation: 1190.52 - Price: 0.44 
+* Date bought: 2018-01-01 - Current Date: 2018-01-26 00:00:00 +0000 UTC - Valuation: 1218.74 - Price: 0.45 
+* Date bought: 2018-01-01 - Current Date: 2018-01-25 00:00:00 +0000 UTC - Valuation: 1210.41 - Price: 0.44 
+* Date bought: 2018-01-01 - Current Date: 2018-01-24 00:00:00 +0000 UTC - Valuation: 1071.79 - Price: 0.39 
+* Date bought: 2018-01-01 - Current Date: 2018-01-23 00:00:00 +0000 UTC - Valuation: 965.39 - Price: 0.35 
+* Date bought: 2018-01-01 - Current Date: 2018-01-22 00:00:00 +0000 UTC - Valuation: 952.11 - Price: 0.35 
+* Date bought: 2018-01-01 - Current Date: 2018-01-21 00:00:00 +0000 UTC - Valuation: 975.88 - Price: 0.36 
+* Date bought: 2018-01-01 - Current Date: 2018-01-20 00:00:00 +0000 UTC - Valuation: 1196.43 - Price: 0.44 
+* Date bought: 2018-01-01 - Current Date: 2018-01-19 00:00:00 +0000 UTC - Valuation: 1016.01 - Price: 0.37 
+* Date bought: 2018-01-01 - Current Date: 2018-01-18 00:00:00 +0000 UTC - Valuation: 948.46 - Price: 0.35 
+* Date bought: 2018-01-01 - Current Date: 2018-01-17 00:00:00 +0000 UTC - Valuation: 973.84 - Price: 0.36 
+* Date bought: 2018-01-01 - Current Date: 2018-01-16 00:00:00 +0000 UTC - Valuation: 905.01 - Price: 0.33 
+* Date bought: 2018-01-01 - Current Date: 2018-01-15 00:00:00 +0000 UTC - Valuation: 1434.47 - Price: 0.53 
+* Date bought: 2018-01-01 - Current Date: 2018-01-14 00:00:00 +0000 UTC - Valuation: 1609.98 - Price: 0.59 
+* Date bought: 2018-01-01 - Current Date: 2018-01-13 00:00:00 +0000 UTC - Valuation: 1847.47 - Price: 0.68 
+* Date bought: 2018-01-01 - Current Date: 2018-01-12 00:00:00 +0000 UTC - Valuation: 1697.90 - Price: 0.62 
+* Date bought: 2018-01-01 - Current Date: 2018-01-11 00:00:00 +0000 UTC - Valuation: 1471.43 - Price: 0.54 
+* Date bought: 2018-01-01 - Current Date: 2018-01-10 00:00:00 +0000 UTC - Valuation: 1566.63 - Price: 0.57 
+* Date bought: 2018-01-01 - Current Date: 2018-01-09 00:00:00 +0000 UTC - Valuation: 1520.97 - Price: 0.56 
+* Date bought: 2018-01-01 - Current Date: 2018-01-08 00:00:00 +0000 UTC - Valuation: 1512.59 - Price: 0.55 
+* Date bought: 2018-01-01 - Current Date: 2018-01-07 00:00:00 +0000 UTC - Valuation: 1583.84 - Price: 0.58 
+* Date bought: 2018-01-01 - Current Date: 2018-01-06 00:00:00 +0000 UTC - Valuation: 1587.15 - Price: 0.58 
+* Date bought: 2018-01-01 - Current Date: 2018-01-05 00:00:00 +0000 UTC - Valuation: 1407.26 - Price: 0.52 
+* Date bought: 2018-01-01 - Current Date: 2018-01-04 00:00:00 +0000 UTC - Valuation: 1374.94 - Price: 0.50 
+* Date bought: 2018-01-01 - Current Date: 2018-01-03 00:00:00 +0000 UTC - Valuation: 1171.67 - Price: 0.43 
+* Date bought: 2018-01-01 - Current Date: 2018-01-02 00:00:00 +0000 UTC - Valuation: 1034.91 - Price: 0.38 
+* Date bought: 2018-01-01 - Current Date: 2018-01-01 00:00:00 +0000 UTC - Valuation: 1000.00 - Price: 0.37 
